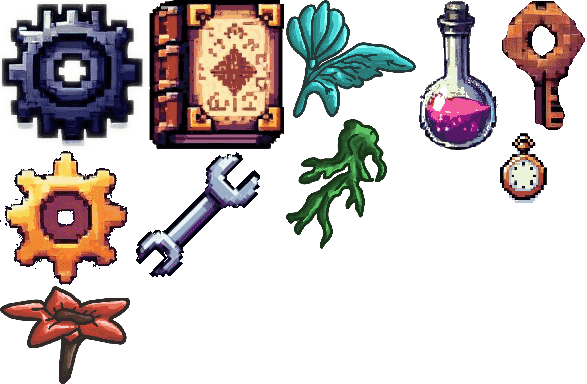
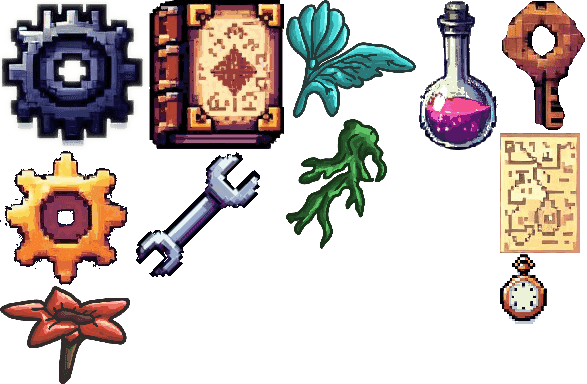
add note item

diff --git a/src/scenes/dialogs/Books.ts b/src/scenes/dialogs/Books.ts
@@ -1,10 +1,13 @@
 import { FX, GameObjects, Geom } from 'phaser';
 
 import { Player } from '../../classes/Player/Player';
+import { Button } from '../../classes/UI/Button';
 import { Message } from '../../classes/UI/Message';
 import { Config } from '../../config';
+import { ItemType } from '../../data/types';
 import { Colors, getColorNumber } from '../../utils/colors';
 import { fontStyle, noteStyle } from '../../utils/fonts';
+import { hasItem } from '../../utils/interactionUtils';
 import { Dialog } from './Dialog';
 
 const GLOW_STRENGTH = 6;
@@ -49,7 +52,6 @@ export class Books extends Dialog {
   books: { image: GameObjects.Image; glow: FX.Glow; strength: number; name: string }[];
   message: Message;
   answer: number[];
-  hasNote: boolean;
 
   bookshelf: GameObjects.Image;
   door: GameObjects.Image;
@@ -66,7 +68,6 @@ export class Books extends Dialog {
 
   init(data: { player: Player }) {
     this.player = data.player;
-    this.hasNote = true;
   }
 
   create() {
@@ -79,34 +80,18 @@ export class Books extends Dialog {
 
     this.container.add(this.add.rectangle(0, 0, Config.width, Config.height, 0));
 
-    this.createBookshelf();
+    const hasNote = hasItem(this.player, ItemType.Note);
+    this.createBookshelf(hasNote);
 
-    const image = this.add.image(0, 0, 'props', 'paper').setScale(1.6, 2.25).setAngle(90);
-    image.setPosition(20 + image.displayHeight / 2, 5 + image.displayWidth / 2);
-    this.addTarget(image);
+    this.container.add(
+      new Button(this, Config.width * 0.47, Config.height * -0.43, 'X', () => this.close(false), {
+        ...fontStyle,
+        backgroundColor: undefined,
+        fontSize: 54,
+      })
+    );
 
-    const text = this.add
-      .text(
-        70,
-        50,
-        'I am not quite sure where to start. Maybe something in the library will help me find the answers I seek.',
-        {
-          ...noteStyle,
-          fontSize: 36,
-        }
-      )
-      .setWordWrapWidth(260);
-    this.addTarget(text);
-
-    if (this.hasNote) {
-      text.setText(
-        [
-          'A spiral marks the heart of the sequence.',
-          'Time begins with "Creation" and ends in "Eternity".',
-          'A blue tome, near the center, waits before the final touch.',
-        ].join('\n\n')
-      );
-
+    if (hasNote) {
       this.time.delayedCall(200, () => {
         this.message.setDialog(
           {
@@ -118,16 +103,37 @@ export class Books extends Dialog {
           'player_portrait'
         );
       });
+
+      const image = this.add.image(0, 0, 'props', 'paper').setScale(1.6, 2.25).setAngle(90);
+      image.setPosition(20 + image.displayHeight / 2, 5 + image.displayWidth / 2);
+      this.addTarget(image);
+
+      const text = this.add
+        .text(
+          70,
+          50,
+          [
+            'A spiral marks the heart of the sequence.',
+            'Time begins with "Creation" and ends in "Eternity".',
+            'A blue tome, near the center, waits before the final touch.',
+          ].join('\n\n'),
+          {
+            ...noteStyle,
+            fontSize: 36,
+          }
+        )
+        .setWordWrapWidth(260);
+      this.addTarget(text);
     }
 
     this.fadeIn();
   }
 
-  createBookshelf() {
+  createBookshelf(hasNote: boolean) {
     const texture = this.textures.get('bookshelf');
     const frames = Object.entries(texture.frames);
     const scale = 4;
-    const xOffset = 150;
+    const xOffset = hasNote ? 150 : 0;
 
     this.bookshelf = this.add.image(xOffset, 0, 'bookshelf', 'Bookshelf-0').setScale(scale).setTint(0x666666);
     this.container.add(this.bookshelf);
@@ -165,7 +171,7 @@ export class Books extends Dialog {
         });
 
         image.on('pointerdown', () => {
-          const correct = bookOrder[this.answer.length] === i;
+          const correct = bookOrder[this.answer.length] === i && hasNote;
 
           const messages = [this.books[i].name];
           if (correct) messages.push('<b><i>[CLUNK]</i></b> The bookshelf shifts slightly.');
@@ -199,7 +205,7 @@ export class Books extends Dialog {
           );
         });
 
-        if (!Config.prod) {
+        if (!Config.prod && hasNote) {
           if (bookOrder.includes(i)) {
             const debug = this.add
               .text(

diff --git a/src/data/item.ts b/src/data/item.ts
@@ -14,4 +14,5 @@ export const ItemData: Record<ItemType, Data> = {
   [ItemType.HerbBlue]: { x: 1535, y: 875, image: 'herb_blue', name: 'Blue Plumed Frond' },
   [ItemType.Potion]: { x: 0, y: 0, image: 'potion', name: 'Strange Potion' },
   [ItemType.Gear2]: { x: 0, y: 0, image: 'gear2', name: 'Old Gear' },
+  [ItemType.Note]: { x: 0, y: 0, image: 'note', name: 'Old Note' },
 };

diff --git a/src/data/types.ts b/src/data/types.ts
@@ -104,6 +104,7 @@ export enum ItemType {
   HerbBlue,
   Potion,
   Gear2,
+  Note,
 }
 
 export enum QuestType {
